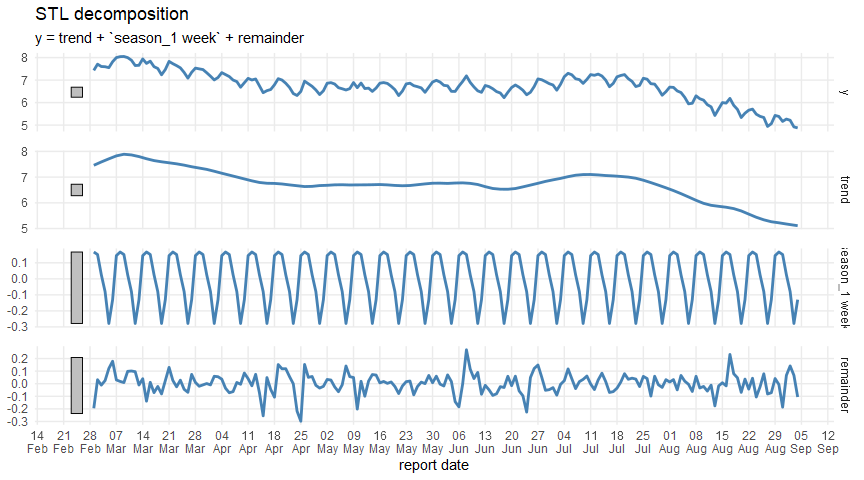
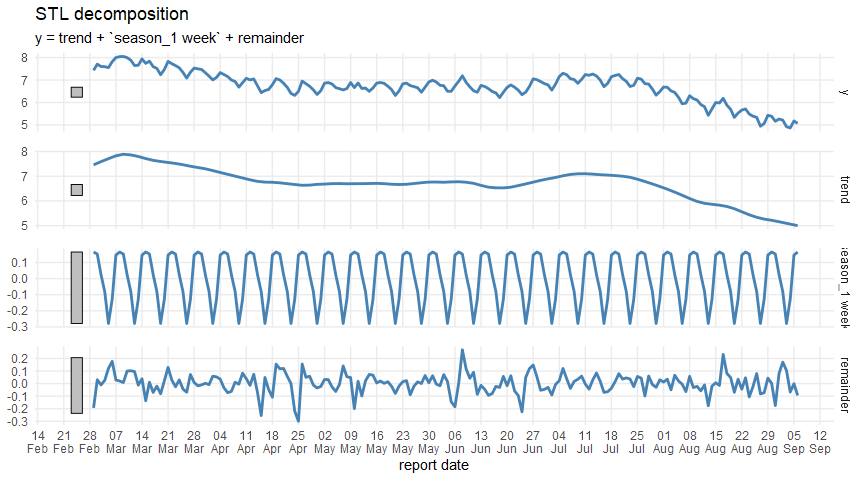
Update for 20220907

diff --git a/covid-post-peak-analysis.md b/covid-post-peak-analysis.md
@@ -34,7 +34,7 @@ cases_df <- read_csv(case_data_url) %>%
   clean_names()
 ```
 
-    ## Rows: 1749139 Columns: 7
+    ## Rows: 1753182 Columns: 7
     ## ── Column specification ────────────────────────────────────────────────────────
     ## Delimiter: ","
     ## chr  (5): Case Status, Sex, Age group, DHB, Overseas travel
@@ -51,7 +51,7 @@ cases_by_dhb_df <- cases_df %>%
   count(report_date, dhb, case_status)
 ```
 
-## Wellington figures up to 4 Sep 2022
+## Wellington figures up to 6 Sep 2022
 
 Including Hutt and Wairarapa as well as CCDHB.
 
@@ -171,11 +171,11 @@ maxima <- dhb_cases_after_transform_stl_df %>%
   summarise(cases = max(cases), adjusted = max(season_adjust), trend = max(trend))
 ```
 
-Looking at raw case numbers, the peak on 9 Mar 2022 was about 24.1 times
+Looking at raw case numbers, the peak on 9 Mar 2022 was about 24.3 times
 the lowest recent value.
 
-But when adjusting for the weekly pattern, it was 19.6 times the lowest
-recent adjusted value, and the trend was about 16.2 times the lowest
+But when adjusting for the weekly pattern, it was 21.7 times the lowest
+recent adjusted value, and the trend was about 18.1 times the lowest
 recent trend line.
 
 While the trend might be over-smoothed, the peak coincinded with the
